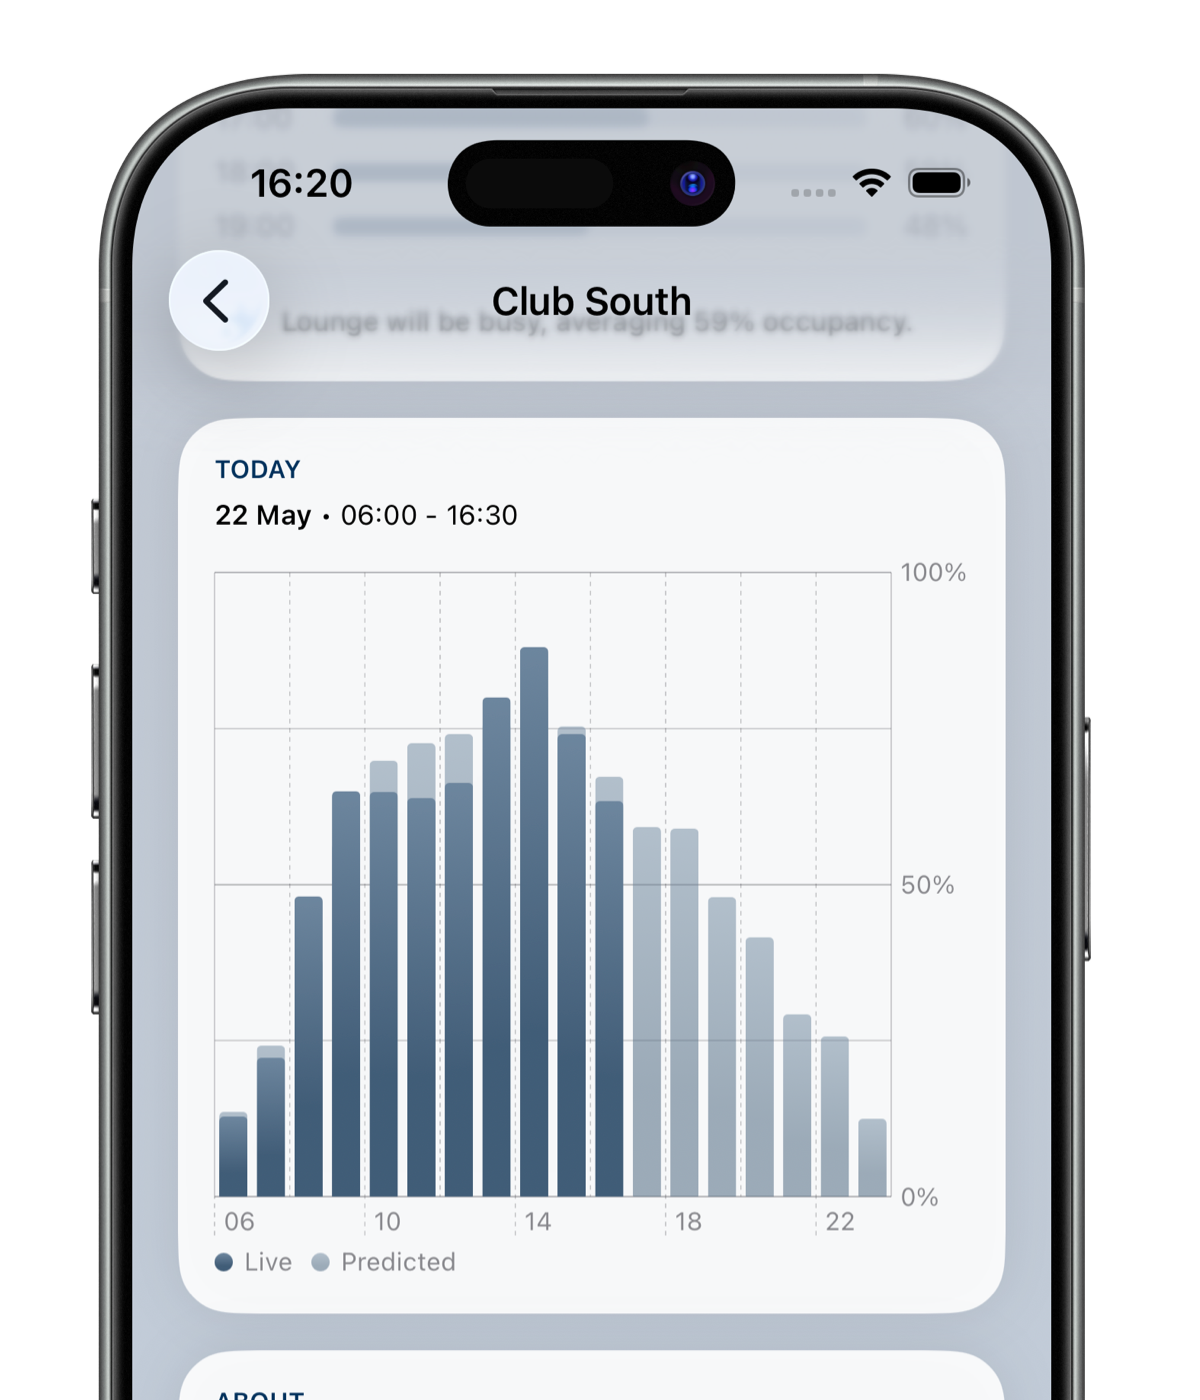
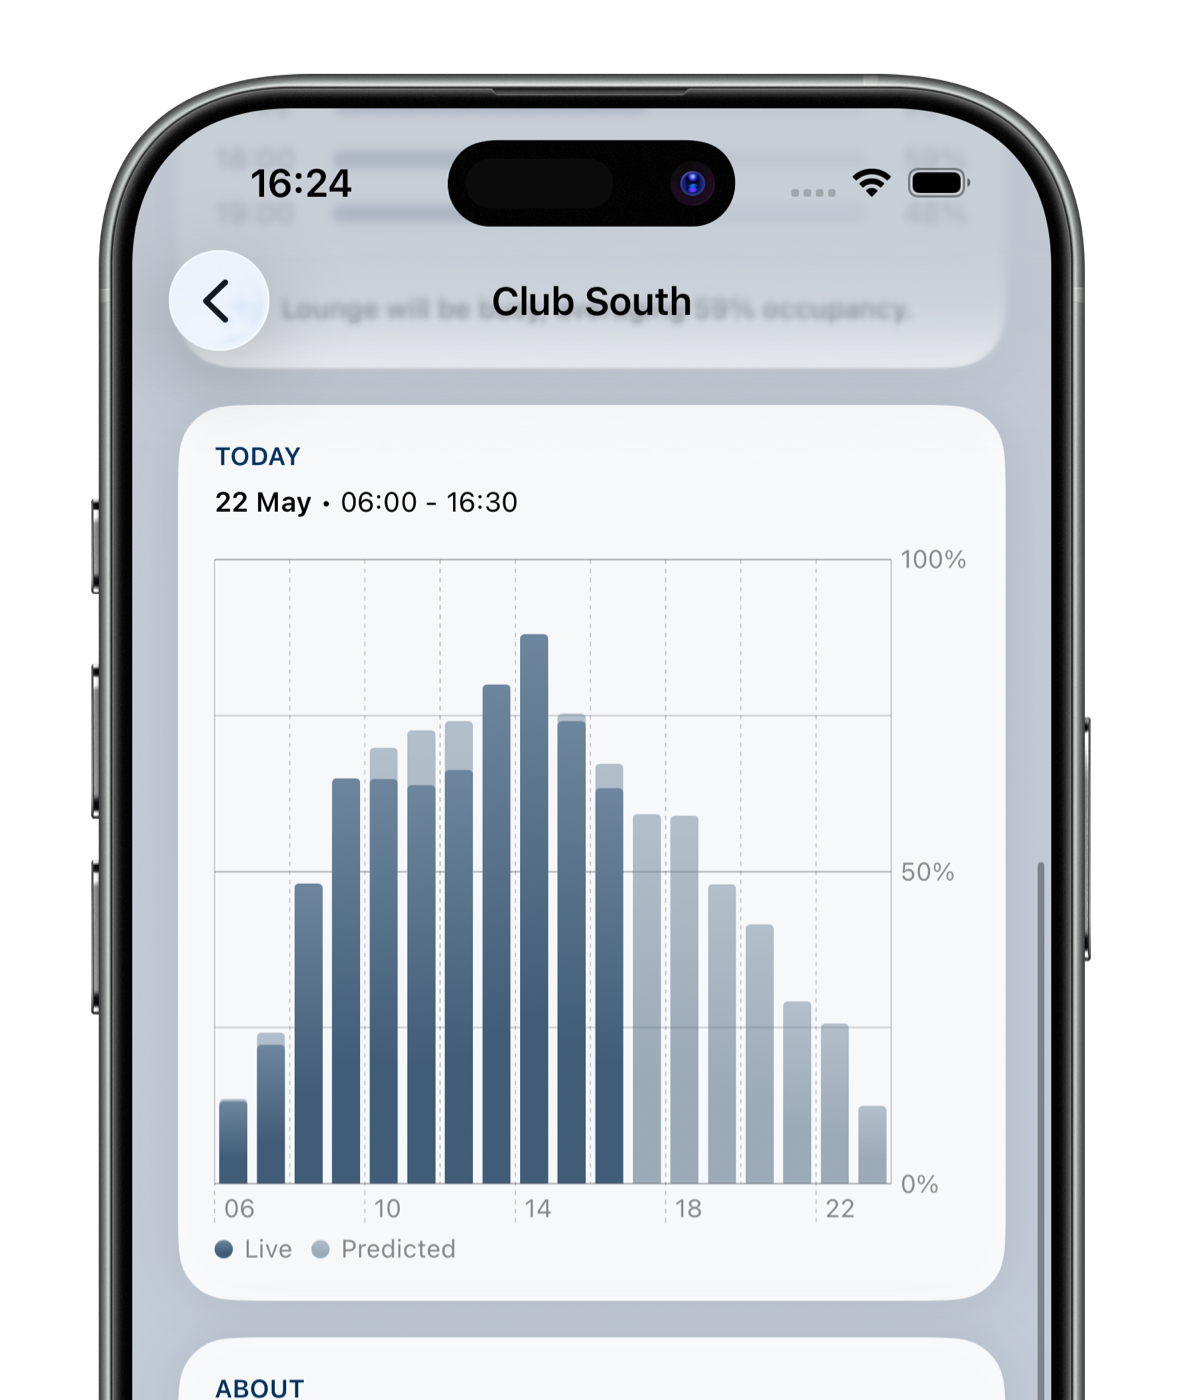
Add dark mode variants

diff --git a/src/pages/preview/sections/PreviewFeatures.tsx b/src/pages/preview/sections/PreviewFeatures.tsx
@@ -15,6 +15,7 @@ const previewItems: BentoItem[] = [
     description: "Know before you go. See expected lounge occupancy hours in advance with AI-powered predictions based on real-world usage patterns.",
     size: "large",
     image: "/images/preview/predictive-occupancy.webp",
+    imageDark: "/images/preview/predictive-occupancy-dark.webp",
     theme: "steel",
   },
   {
@@ -22,6 +23,7 @@ const previewItems: BentoItem[] = [
     description: "Decide at a glance. Instantly see whether a lounge is busier or quieter than usual with glanceable occupancy insights.",
     size: "large",
     image: "/images/preview/trends.webp",
+    imageDark: "/images/preview/trends-dark.webp",
     theme: "gold",
   }
 ];